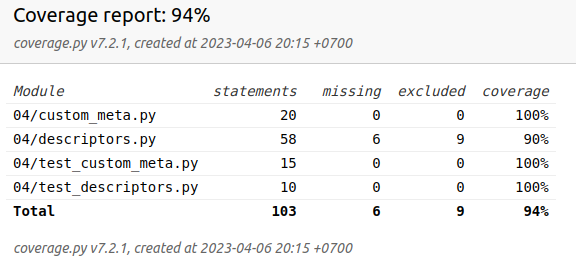
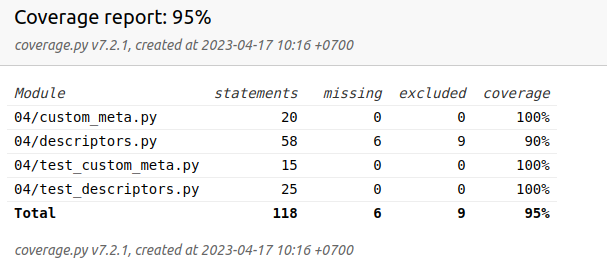
Change fourth hw

diff --git a/04/test_descriptors.py b/04/test_descriptors.py
@@ -45,6 +45,35 @@ def test_descriptors_success(
 
 
 @pytest.mark.parametrize(
+    ["num", "name", "price"],
+    [
+        [
+            2,
+            "some string",
+            3,
+        ],
+    ],
+)
+def test_descriptors_change_values(num, name, price):
+    instance = Data(num, name, price)
+    with pytest.raises(ValueError, match="Значение 2 не является числовым"):
+        instance.num = "2"
+    assert instance.num == num
+
+    with pytest.raises(ValueError, match="Значение 2 не является строковым"):
+        instance.name = 2
+    assert instance.name == name
+
+    with pytest.raises(ValueError, match="Значение 2 не является числовым"):
+        instance.price = "2"
+    assert instance.price == price
+
+    with pytest.raises(ValueError, match="Значение -2 не больше нуля"):
+        instance.price = -2
+    assert instance.price == price
+
+
+@pytest.mark.parametrize(
     ["num", "name", "price", "message"],
     [
         [

diff --git a/04/custom_meta.py b/04/custom_meta.py
@@ -14,7 +14,7 @@ class CustomMeta(type):
 
     @staticmethod
     def __setattr__(self, name, value):
-        if not name.startswith("custom_"):
+        if not (name.startswith("custom_") or (name.startswith("__") and name.endswith("__"))):
             object.__setattr__(self, f"custom_{name}", value)
 
 
